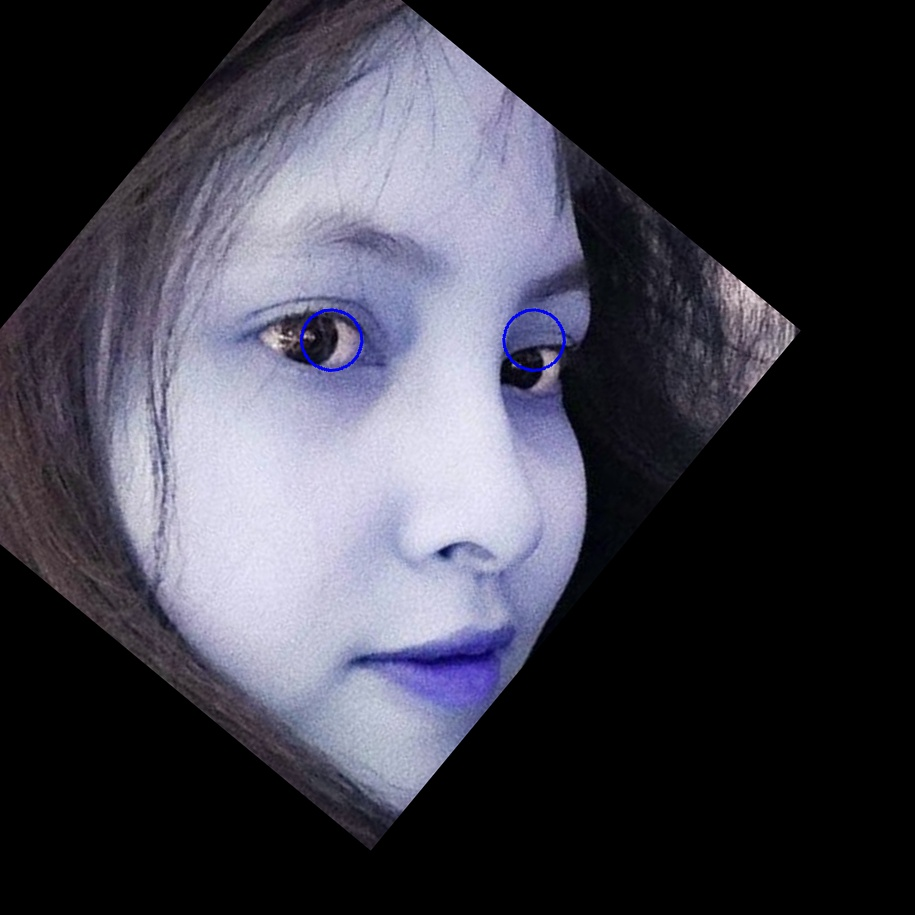
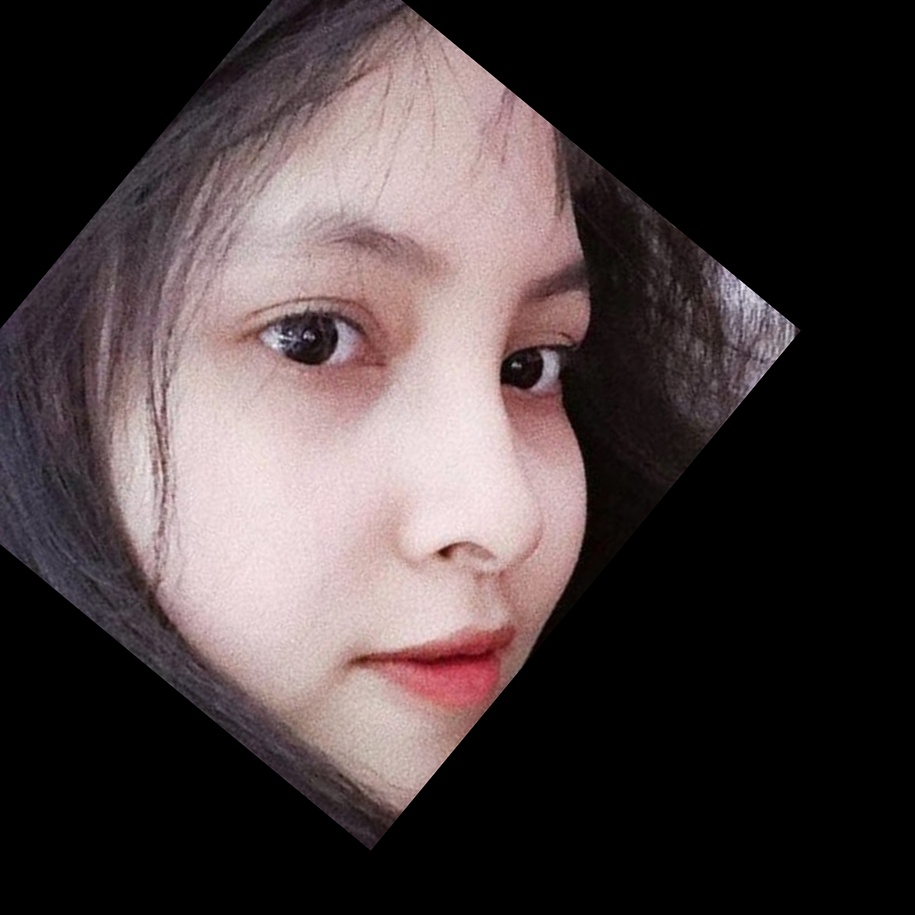
fix: demo parameters

Changed region(s): [[0.1836, 0.0, 0.6426, 0.8874], [0.1224, 0.3672, 0.1836, 0.5202], [0.1224, 0.5814, 0.1836, 0.6426]]

diff --git a/image_alignment/alignment.py b/image_alignment/alignment.py
@@ -41,17 +41,15 @@ def keypoints_alignment(image, eye_coors):
     (h, w) = int(math.sqrt(image.shape[0] ** 2 + image.shape[1] ** 2)), \
              int(math.sqrt(image.shape[0] ** 2 + image.shape[1] ** 2))
 
-    image = cv2.circle(image, left_eye, 30, (255, 0, 0), 2)
-    image = cv2.circle(image, right_eye, 30, (255, 0, 0), 2)
-    cv2.imshow('a', image)
+    # image = cv2.circle(image, left_eye, 30, (255, 0, 0), 2)
+    # image = cv2.circle(image, right_eye, 30, (255, 0, 0), 2)
     rotated_image = cv2.warpAffine(image, M, (w, h), flags=cv2.INTER_CUBIC)
-    cv2.imshow('r', rotated_image)
     cv2.waitKey(0)
 
     return rotated_image
 
 
-def landmarks_align_image(image_path, demo=False):
+def landmarks_align_image(image_path, points=None, demo=False):
     fa = face_alignment.FaceAlignment(face_alignment.LandmarksType._2D, flip_input=False, 
                                       device='cpu')
     image = cv2.imread(image_path)
@@ -81,11 +79,9 @@ def landmarks_align_image(image_path, demo=False):
         cv2.imwrite(image_path, face)
 
 
-def keypoints_align_image(image_path, demo=False):
+def keypoints_align_image(image_path, points=None, demo=False):
     image = cv2.imread(image_path)
-    json_path = image_path.split('.')[0] + '.json'
-    with open(json_path, 'r') as f:
-        coors = json.load(f)
+    coors = points
 
     face = keypoints_alignment(image, (coors[0], coors[1]))
     cv2.imwrite('data/demo/alignment/' + image_path.split('/')[-1], face)
@@ -94,11 +90,11 @@ def keypoints_align_image(image_path, demo=False):
         cv2.imwrite(image_path, face)
 
 
-def align_image(image_path, demo=False, t="keypoints"):
+def align_image(image_path, points=None, demo=False, t="keypoints"):
     if t == "keypoints":
-        keypoints_align_image(image_path, demo)
+        keypoints_align_image(image_path, points, demo)
     else:
-        landmarks_align_image(image_path, demo)
+        landmarks_align_image(image_path, points, demo)
 
 
 if __name__ == '__main__':

diff --git a/face_detection/predict.py b/face_detection/predict.py
@@ -6,8 +6,8 @@ from matplotlib import pyplot as plt
 import torch
 from torch.autograd import Variable
 import json
+
 import sys
-import time
 sys.path.append('.')
 from face_detection.models import build_ssd, YoloDetector
 from face_detection.utils import BaseTransform
@@ -63,22 +63,21 @@ def ssd_predict(image_path, save_folder='data/demo/detection', get_ax=False):
     return faces
 
 
-times = []
 def yoloface_predict(image_path, save_folder='data/demo/detection', get_ax=False):
     if type(image_path) == str:
         image = Image.open(image_path)    
         image = np.array(image.convert('RGB'))
         image = cv2.cvtColor(image, 1)
     else:
-        image = image_path
+        image = np.array(image_path.convert('RGB'))
+        image = cv2.cvtColor(image, 1)
 
     x = torch.from_numpy(image).permute(2, 0, 1)
-    start = time.time()
     faces, points = model(image)
-    end = time.time()
-    times.append(end - start)
+    image = cv2.cvtColor(image, cv2.COLOR_RGB2BGR)
     
     cut_faces = []
+    list_points = []
     j = 0
     axes = []
     for (xmin, ymin, xmax, ymax) in faces[0]:
@@ -91,18 +90,17 @@ def yoloface_predict(image_path, save_folder='data/demo/detection', get_ax=False
         cut_faces.append(cut_image)
         axes.append([x, y, w, h])
 
-        with open(os.path.join(save_folder, str(j + 1) + '.json'), 'w') as f:
-            for i in range(5):
-                points[0][j][i][0] -= x
-                points[0][j][i][1] -= y
-            json.dump(points[0][j], f)
+        for i in range(5):
+            points[0][j][i][0] -= x
+            points[0][j][i][1] -= y
+        list_points.append(points[0][j])
         j += 1
         cv2.imwrite(os.path.join(save_folder, str(j) + '.jpg'), cut_image)
     
     if get_ax:
         return axes
     
-    return cut_faces
+    return cut_faces, list_points
 
 
 def predict(image_path, save_folder='data/demo/detection', get_ax=False, type='yoloface'):

diff --git a/deployment/app.py b/deployment/app.py
@@ -28,7 +28,7 @@ def detect_faces(image_path):
     # image = load_image(image_path)
     # image = np.array(image.convert('RGB'))
     # image = cv2.cvtColor(image, 1)
-    faces = detect(image_path)
+    faces = yoloface_predict(image_path)
     # path_to_face = f"data/demo/detection/{name}"
     return faces
 
@@ -94,7 +94,8 @@ def main():
         image = st.camera_input("Take a picture")
         if image is not None:
             image = Image.open(image)
-            image = detect_faces(image)[0]
+            image, points = detect_faces(image)
+            image, points = image[0], points[0]
             user_counts = len(next(os.walk('deployment/assets/target_imgs'))[1])
             print(f"There are {user_counts} users so far!!!")
             user_folder = os.path.join("deployment/assets/target_imgs",user_code)
@@ -103,7 +104,7 @@ def main():
             new_upload_path = os.path.join(user_folder, time.strftime("%Y%m%d%H%M%S.jpg"))
             cv2.imwrite(new_upload_path, cv2.cvtColor(np.array(image), cv2.COLOR_RGB2BGR))
             enhance(new_upload_path)
-            align_image(new_upload_path, demo=True)
+            align_image(new_upload_path, points, demo=True)
             user_info_path = os.path.join(user_folder, f"{user_code}.json")
             user_info = {
                 "name": user_name,

diff --git a/face_detection/models/yoloface/yolo.py b/face_detection/models/yoloface/yolo.py
@@ -11,8 +11,8 @@ import torch.nn as nn
 sys.path.append('./')  # to run '$ python *.py' files in subdirectories
 logger = logging.getLogger(__name__)
 
-from .common import Conv, Bottleneck, SPP, DWConv, Focus, BottleneckCSP, C3, ShuffleV2Block, Concat, NMS, autoShape, StemBlock
-from .experimental import MixConv2d, CrossConv
+from face_detection.models.yoloface.common import Conv, Bottleneck, SPP, DWConv, Focus, BottleneckCSP, C3, ShuffleV2Block, Concat, NMS, autoShape, StemBlock
+from face_detection.models.yoloface.experimental import MixConv2d, CrossConv
 from face_detection.utils.autoanchor import check_anchor_order
 from face_detection.utils.general import make_divisible, check_file, set_logging
 from face_detection.utils.torch_utils import time_synchronized, fuse_conv_and_bn, model_info, scale_img, initialize_weights, \

diff --git a/face_detection/models/yoloface/export.py b/face_detection/models/yoloface/export.py
@@ -13,10 +13,10 @@ sys.path.append('./')  # to run '$ python *.py' files in subdirectories
 import torch
 import torch.nn as nn
 
-from yoloface.models.experimental import attempt_load
-from yoloface.models.common import Conv
-from yoloface.utils.activations import Hardswish, SiLU
-from yoloface.utils.general import set_logging, check_img_size
+from face_detection.models.yoloface.experimental import attempt_load
+from face_detection.models.yoloface.common import Conv
+from face_detection.utils.activations import Hardswish, SiLU
+from face_detection.utils.general import set_logging, check_img_size
 import onnx
 
 if __name__ == '__main__':

diff --git a/face_detection/models/yoloface/experimental.py b/face_detection/models/yoloface/experimental.py
@@ -4,9 +4,7 @@ import numpy as np
 import torch
 import torch.nn as nn
 
-from .common import Conv, DWConv
-import sys
-sys.path.append('../..')
+from face_detection.models.yoloface.common import Conv, DWConv
 from face_detection.utils.google_utils import attempt_download
 
 
